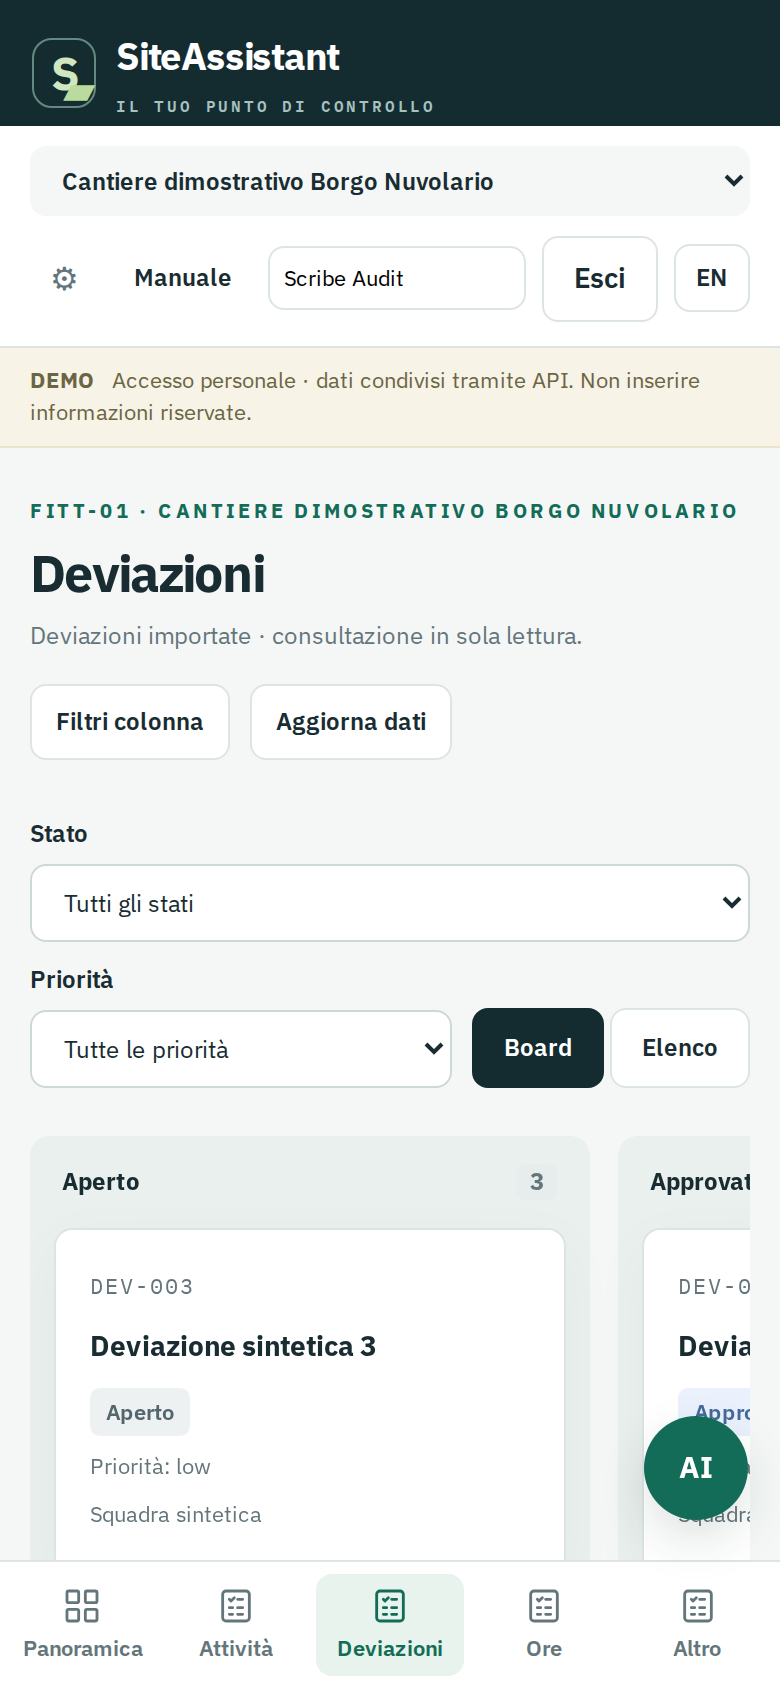
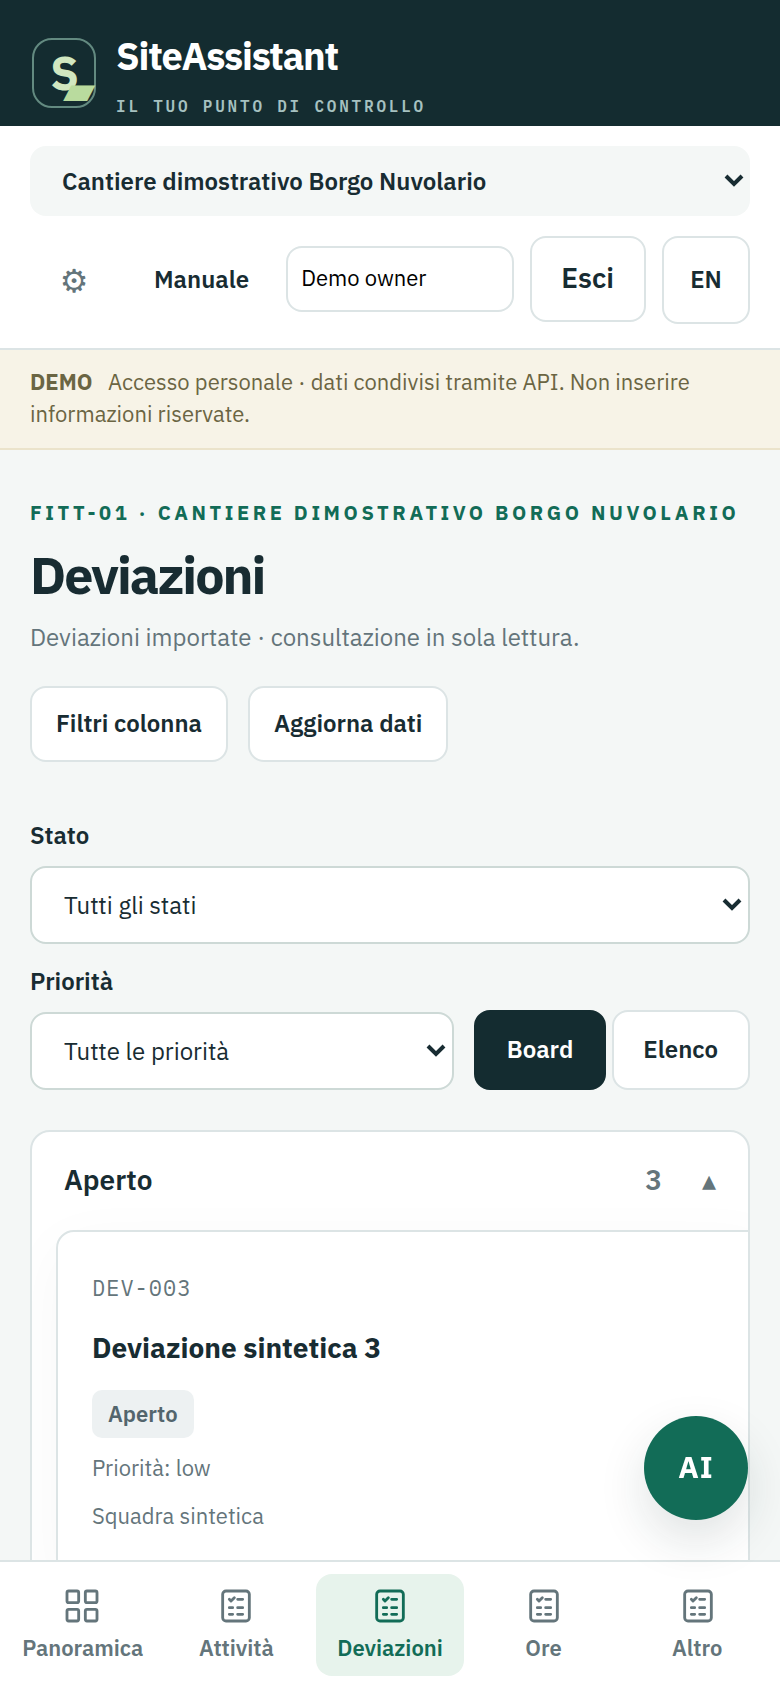
Docs: English screenshots in English, refreshed Italian ones
- Capture the demo build again: desktop 1440x900 and phone 390x844
- English pages now point to /images/2026-11/en/, captured with the UI in English
- Italian screenshots refreshed: saved-view selector, no failed-request banner
- Phone filter selects keep their labels and the diary toolbar no longer clips
- docs-site build: 43 pages, link check passed

diff --git a/app/styles.css b/app/styles.css
@@ -240,3 +240,9 @@ footer{font-size:11px}
 .view-checkbox input[type=checkbox] { min-width: 18px; width: 18px; height: 18px; padding: 0; accent-color: var(--green); }
 .saved-view-sharing { margin-top: 16px; }
 @media print { .saved-views, .task-list-controls { display: none !important; } }
+/* Keep filter labels readable on a phone: two selects per row instead of ellipsis. */
+@media (max-width: 520px) {
+  .toolbar select { flex: 1 1 46%; min-width: 0; }
+  .diary-toolbar { row-gap: 10px; }
+  .diary-toolbar .badge { white-space: normal; max-width: 100%; }
+}
